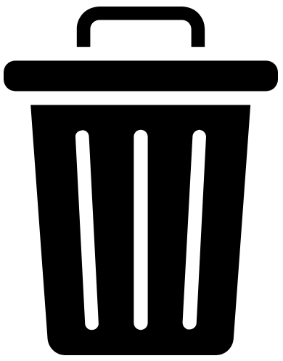
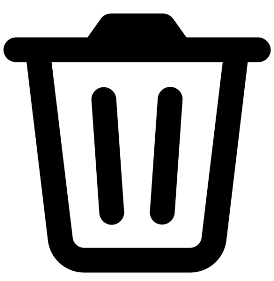
demo ready saaved routes page hehe

diff --git a/PlotTwist/src/routes/savedRoutesPage/savedRoutes.css b/PlotTwist/src/routes/savedRoutesPage/savedRoutes.css
@@ -34,14 +34,42 @@
   align-items: center;
   width: 100%;
   border-bottom: 1px solid var(--mainGreen);
-
+  padding: 10px 0px;
 }
 
-
-.savedRoutesTable__routeName {
+.savedRoutes__routeName {
   color: var(--mainGreen);
+  font-size: 1.5rem;
+  font-weight: 600;
+  width: 300px;
 }
-.savedRoutesTable__retrieveRouteButton {
+.savedRoutes__retrieveRouteButton {
+  color: var(--mainGreen);
+  font-size: 1.5rem;
+  font-weight: 600;
+  background-color: var(white);
+  border: none;
+  border-radius: 20px;
+  height: 60px;
+  width: 200px;
+  margin: 10px 0px;
+  -webkit-box-shadow: 5px 5px 5px 0px rgba(0, 0, 0, 0.2);
+  -moz-box-shadow: 5px 6px 5px 0px rgba(0, 0, 0, 0.2);
+  box-shadow: 5px 6px 5px 0px rgba(0, 0, 0, 0.2);
+}
+
+.savedRoutes__delete {
+  width: 10%;
+}
+
+.savedRoutes__deleteButton {
+  width: 100%;
+  background: none;
+  border: none;
+}
+
+.savedRoutes__deleteIcon {
+  width: 50px;
 }
 
 .savedRoutesTable__deleteRouteButton {
